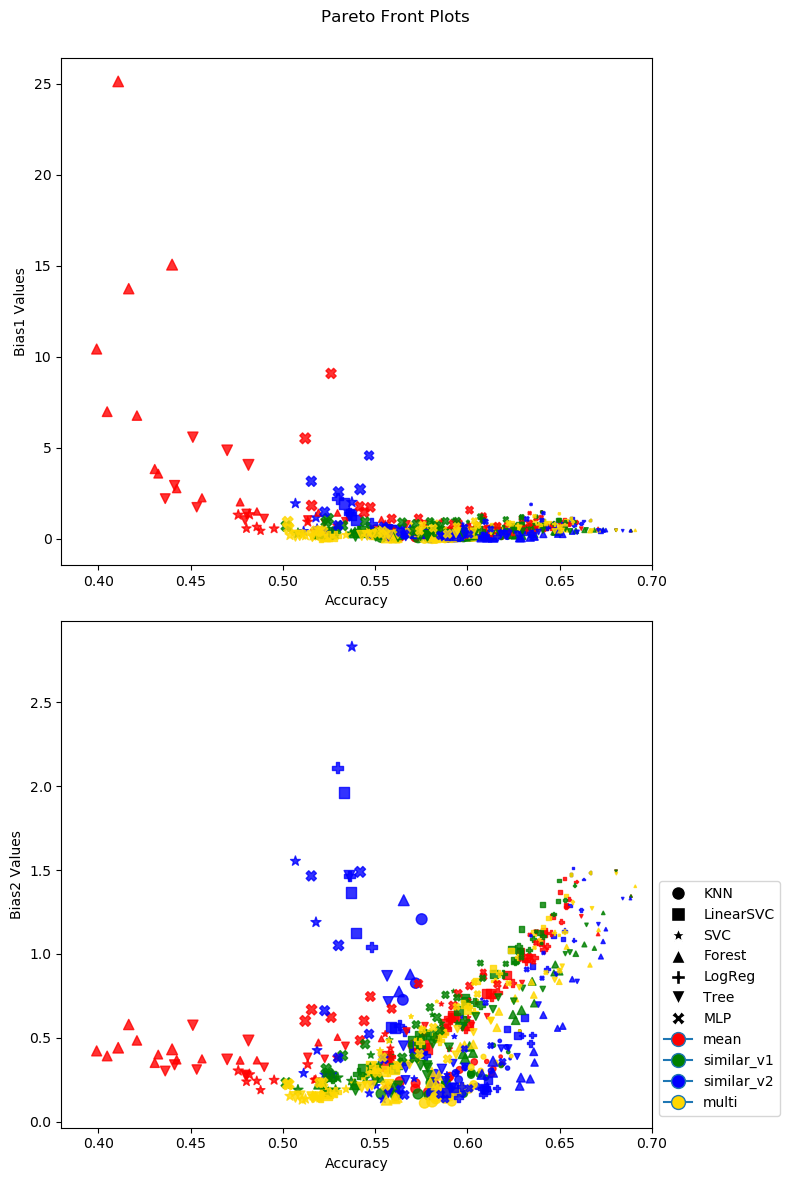
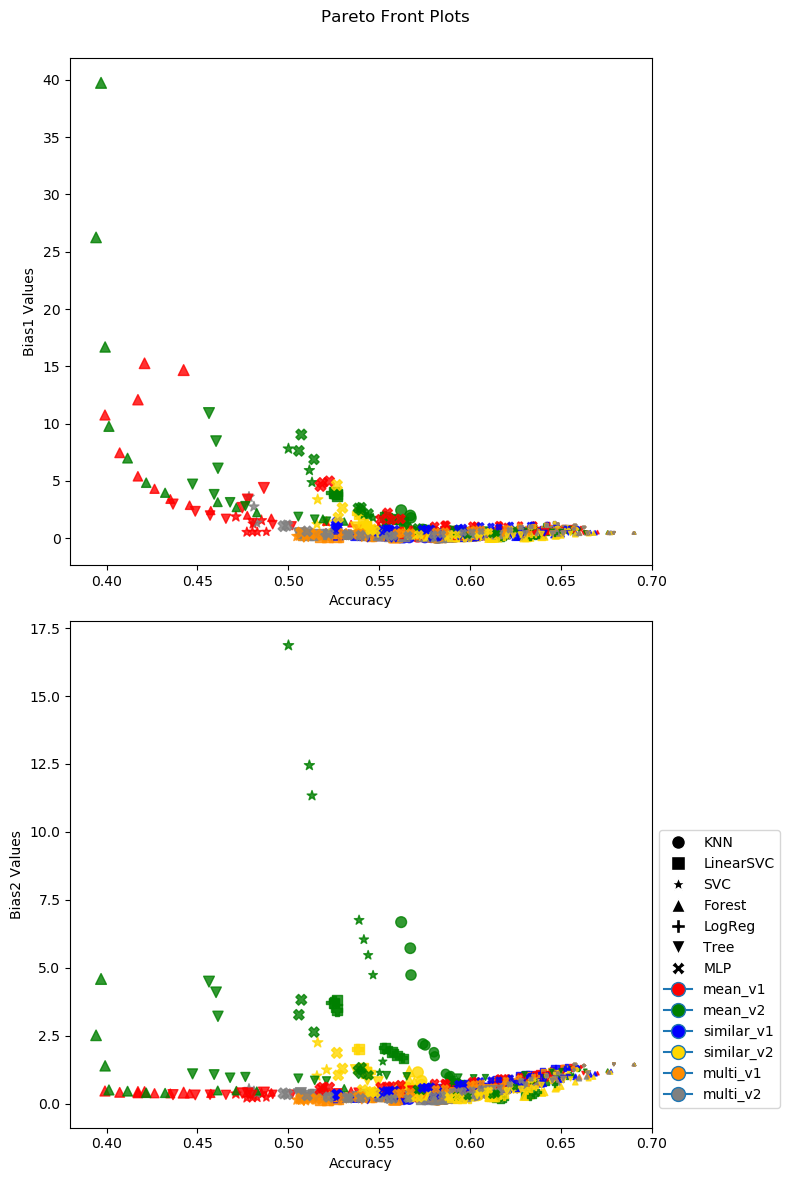
new run (100 trials)

diff --git a/script_plot.py b/script_plot.py
@@ -12,7 +12,7 @@ from script_single_task import random_ratios, RUN_MEAN_V1, RUN_MEAN_V2, RUN_MULT
 
 iter_per_ratio = 100
 
-TRANSFORM_OUTPUTS       = True
+TRANSFORM_OUTPUTS       = False
 
 PLOT_CREATE_MEAN_V1     = False
 PLOT_CREATE_MEAN_V2     = False
@@ -21,7 +21,7 @@ PLOT_CREATE_SIMILAR_V2  = False
 PLOT_CREATE_MULTI_V1    = False
 PLOT_CREATE_MULTI_V2    = False
 
-PLOT_PARETO_FRONTIER    = False
+PLOT_PARETO_FRONTIER    = True
 
 def plot_func(data, method_name, file_name=None, yscale=None, plot_error=True):
     assert len(data) == (iter_per_ratio * len(random_ratios))
@@ -305,7 +305,7 @@ def plot_func_pareto_front(data, file_name=None, y_scale=None, switch=False):
         custom_legend.append(Line2D([0], [0], color='w', markersize=10, markerfacecolor="black", marker=plot_markers[3], label="similar_v2"))
         custom_legend.append(Line2D([0], [0], color='w', markersize=10, markerfacecolor="black", marker=plot_markers[4], label="multi_v1"))
         custom_legend.append(Line2D([0], [0], color='w', markersize=10, markerfacecolor="black", marker=plot_markers[5], label="multi_v2"))
-    plt.legend(handles=custom_legend, bbox_to_anchor=(1, 0.5))
+    plt.legend(handles=custom_legend, bbox_to_anchor=(1, 0.6))
     fig.tight_layout()
     fig.suptitle("Pareto Front Plots")
     plt.subplots_adjust(top=0.94)
